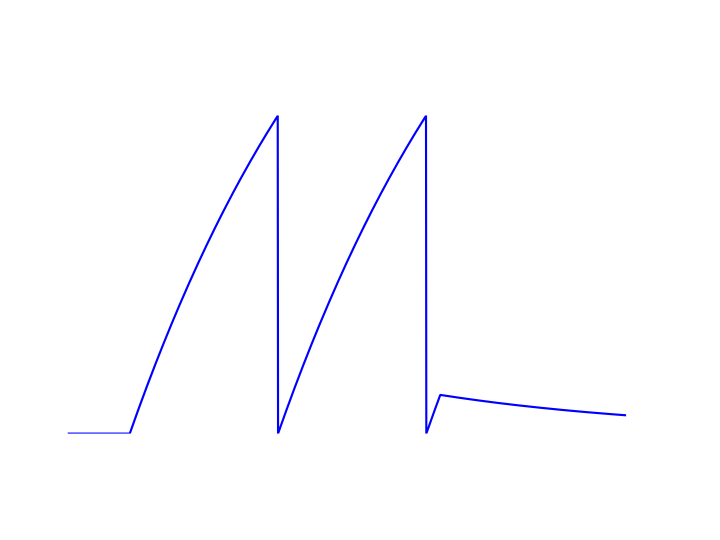
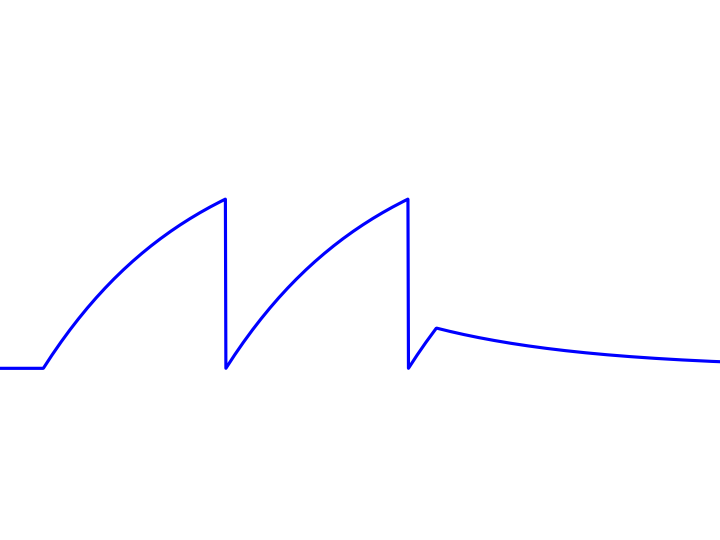
finished with slides

diff --git a/neuronify/neuronify_beamer.tex b/neuronify/neuronify_beamer.tex
@@ -50,10 +50,12 @@
 \end{frame}
 
 \begin{frame}
-\frametitle{We do not need all information in the action potential for a neuron in a network and create an approximation of the action potential}
+\frametitle{We do not need all information in the action potential for a neuron in a network and can create an approximation}
 \begin{figure}
 \includegraphics<1>[width = \textwidth]{hh.png}
-\includegraphics<2>[width = \textwidth]{fi.png}
+\includegraphics<2>[width = 1\textwidth]{fi.png}
+\includegraphics<3>[width = 1\textwidth]{fis.png}
+\includegraphics<4>[width = 1\textwidth]{all.png}
 \end{figure}
 \end{frame}
 
